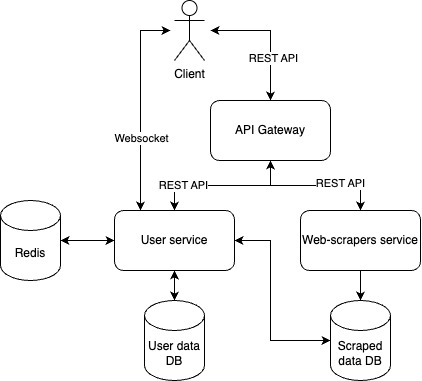
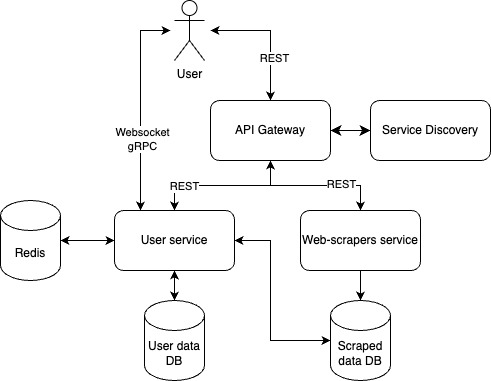
readme mods

diff --git a/README.md b/README.md
@@ -29,15 +29,16 @@ Why this application requires a microservice architecture?
 ## Technology Stack and Communication Patterns
 - Web-scraper service
     - Python (BeautifulSoup4/Selenium)
-    - PostgreSQL (with SQLAlchemy)
+    - PostgreSQL (with SQLAlchemy and TCP)
 - User service
     - Python (RESTful API with Flask)
     - PostgreSQL (with SQLAlchemy)
     - Redis
+    - Websocket with gRPC
 - Gateway
     - JavaScript
 
-## Design Data Management
+## Data Management
 How data is managed across microservices?
 - Web-scrapers will extract and save jobs data in a database;
 - User service will access and process the data from the web-scrapers' database;
@@ -46,37 +47,37 @@ How data is managed across microservices?
 
 All endpoints:
 ```
-'endpoint': '/sign-up',
-'method': 'POST',
-'received_data': json {
+endpoint: "/sign-up",
+method: "POST",
+received_data: json {
     "name": "string",
     "email": "string",
     "password": "string"
 },
-'responses':
+responses:
     201: json {"msg": "Successful sign up"},
     400: json {"msg": "Invalid email"},
     400: json {"msg": "Password too short"}
 
 
-'endpoint': '/login',
-'method': 'POST',
-'received_data': json {
+endpoint: "/login",
+method: "POST",
+received_data: json {
     "email": "string",
     "password": "string"
 },
-'responses':
+responses:
     200: json {"msg": "Successful login"},
     401: json {"msg": "Invalid email or password"}
 
 
-'endpoint': '/find-jobs',
-'method': 'GET',
-'received_data': query parameters
+endpoint: "/find-jobs",
+method: "GET",
+received_data: query parameters
     "keywords": "string",
     "page": "integer",
     "per_page": "integer"
-'responses':
+responses:
     200: json [
         {
             "job_id": "string",
@@ -90,37 +91,37 @@ All endpoints:
     404: json {"msg": "No jobs found"}
 
 
-'endpoint': '/generate-insight-skills-by-demand/{keywords}',
-'method': 'GET',
-'received_data': path parameter
+endpoint: "/generate-insight-skills-by-demand/{keywords}",
+method: "GET",
+received_data: path parameter
     "keywords": "string"
-'response':
+response:
     200: json {
         "skill_name": "integer"
     }
 
 
-'endpoint': '/generate-insight-average-experience/{keywords}',
-'method': 'GET',
-'received_data': path parameter 
+endpoint: "/generate-insight-average-experience/{keywords}",
+method: "GET",
+received_data: path parameter 
     "keywords": "string"
-'response':
+response:
     200: json {
         "average_experience": "integer"
     }
 
 
-'endpoint': '/subscribe/{tag}',
-'method': 'POST',
-'received_data': path parameter
+endpoint: "/subscribe/{tag}",
+method: "POST",
+received_data: path parameter
     "tag": "string"
-'response':
+response:
     200: json {"msg": "Subscribed to the tag!"}
 
 
-'endpoint': '/status',
-'method': 'GET',
-'response':
+endpoint: "/status",
+method: "GET",
+response:
     200: json {"msg": "string" // status of the service"}
 ```
 
@@ -135,3 +136,5 @@ RUN pip install --trusted-host pypi.python.org -r requirements.txt
 COPY . .
 ENTRYPOINT ["python", "app.py"]
 ```
+
+Scaling is going to be done through Kubernetes.
